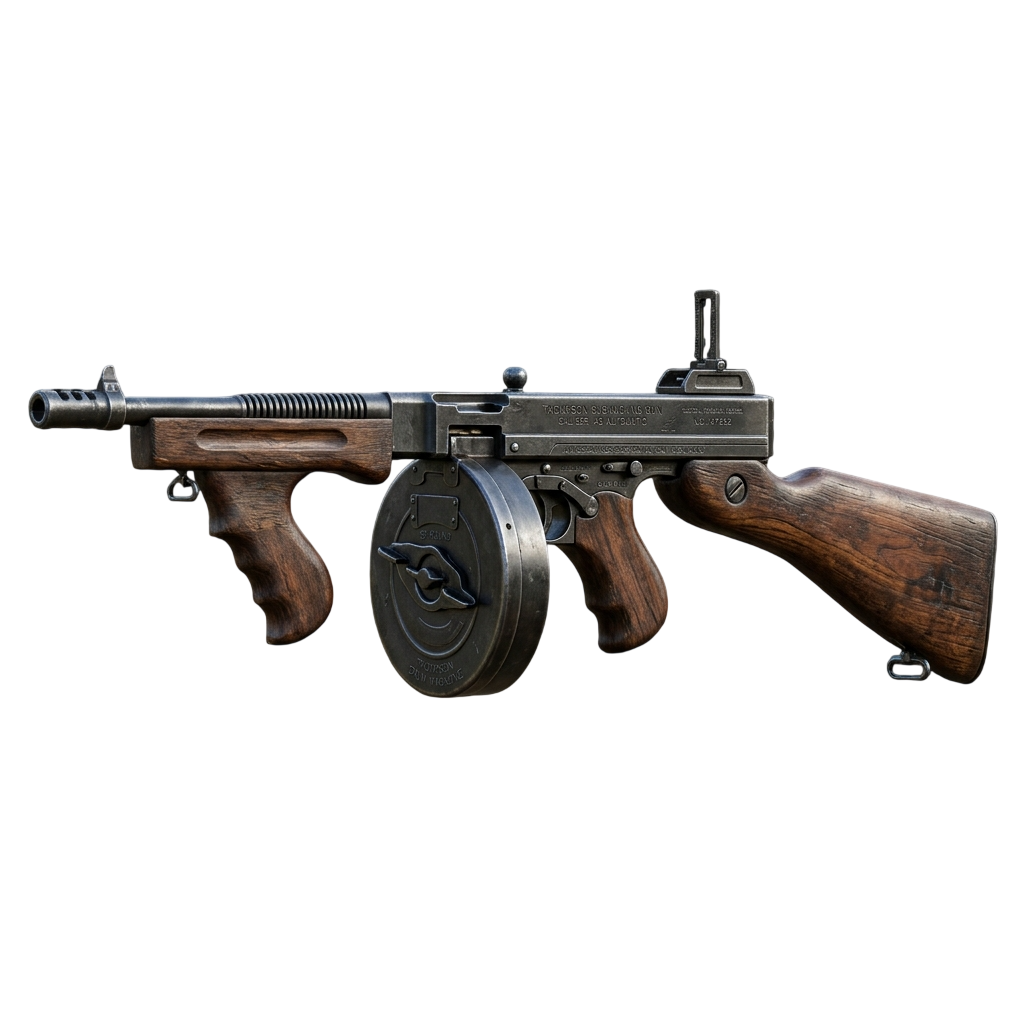
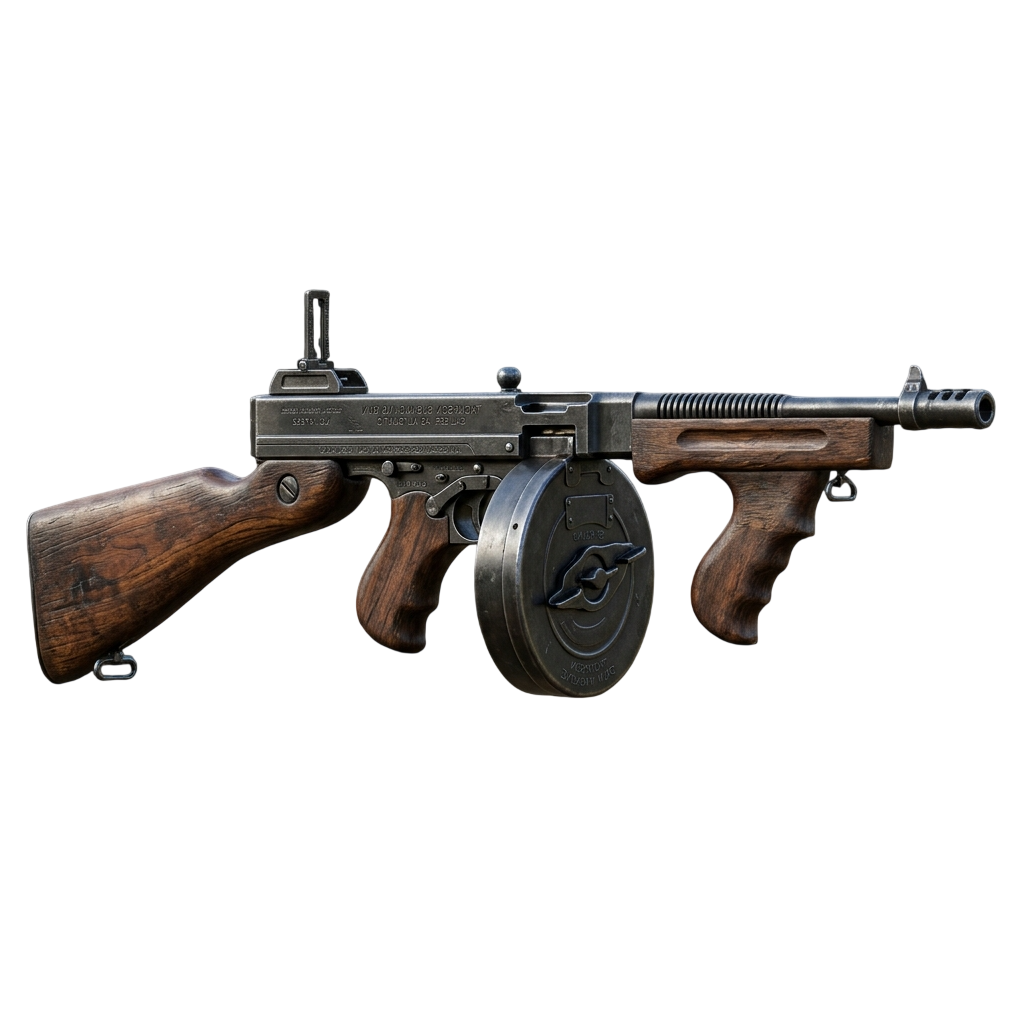
\revert slot mirror; flip 14 rifle sprites to face right (6 exceptions kept)"

Changed region(s): [[0.0, 0.2812, 1.0, 0.6875]]

diff --git a/src/components/widgets/CustomizationModal.tsx b/src/components/widgets/CustomizationModal.tsx
@@ -53,16 +53,6 @@ const SLOT_LABELS: Record<string, string> = {
 
 const DISPLAY_W = 520;
 const DISPLAY_H = 430;
-const MOD_SLOT_SIZE = 80;
-
-// Стволы, смотрящие в другую сторону: их слоты НЕ зеркалим.
-const NO_MIRROR_GUNS = new Set([
-  'vector', 'ak-47', 'galil ace', 'rec7', 'сайга-мк', 'скс',
-]);
-
-// Зеркалим слоты по горизонтали (оружие на арте развёрнуто стволом влево).
-const mirrorSlots = (slots: ModSlotPos[]): ModSlotPos[] =>
-  slots.map((s) => ({ ...s, left: DISPLAY_W - s.left - MOD_SLOT_SIZE }));
 
 export const CustomizationModal = ({ item, slot, onClose }: Props) => {
   const inventoryItems = useInventoryStore((s) => s.items);
@@ -81,10 +71,7 @@ export const CustomizationModal = ({ item, slot, onClose }: Props) => {
   const slotsArray: ModSlotPos[] = (() => {
     const itemType = liveItem?.slot;
     if (itemType === 'weapon1') return COLD_WEAPON_SLOT_POSITIONS;
-    if (itemType === 'weapon2') {
-      const facingRight = NO_MIRROR_GUNS.has((liveItem?.name || '').toLowerCase());
-      return facingRight ? FIREARM_SLOT_POSITIONS : mirrorSlots(FIREARM_SLOT_POSITIONS);
-    }
+    if (itemType === 'weapon2') return FIREARM_SLOT_POSITIONS;
     if (['head', 'armor', 'pants', 'gloves', 'boots'].includes(itemType || '')) return ARMOR_MOD_SLOTS;
     return [];
   })();
